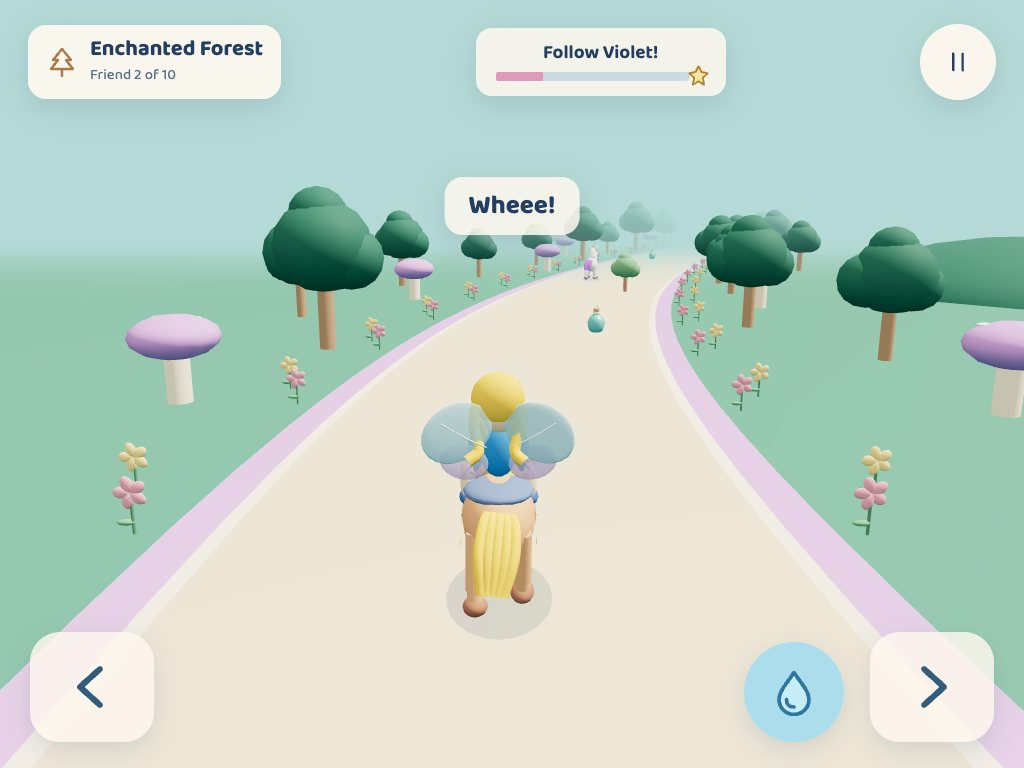
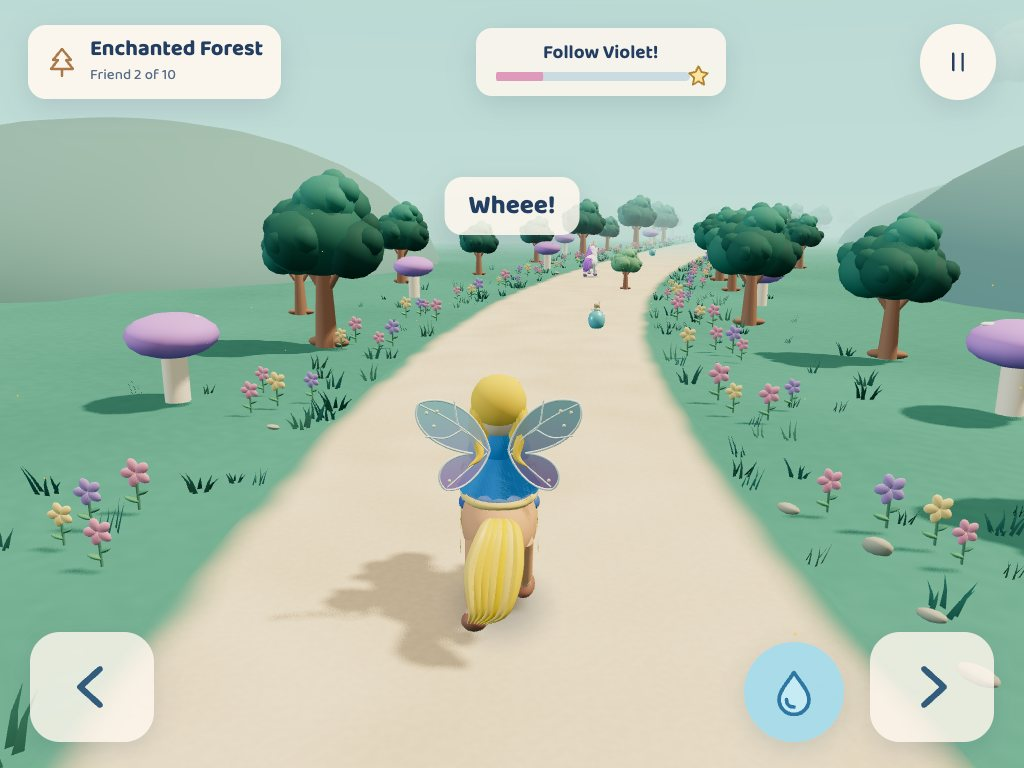
docs: refresh graphics gallery and record rendering quality controls

diff --git a/DESIGN.md b/DESIGN.md
@@ -113,13 +113,13 @@ components:
 
 **Creative North Star: "The Playable Storybook"**
 
-Rounded original 3D figurines inhabit magical pastel landscapes. Soft lighting, sculpted hair, expressive faces, broad curving tracks, flowers and physical landmarks supply the storybook character. The interface uses warm paper, sturdy rounded lettering and generous controls to keep that world readable.
+Rounded original 3D figurines inhabit magical pastel landscapes. Flowing tapered hair, layered eyes, butterfly wings and a scalloped dress give the characters their storybook detail. Textured curving paths, planted verges, layered hills and recognizable landmarks supply environmental depth. The interface uses warm paper, sturdy rounded lettering and generous controls to keep that world readable.
 
 The world remains animated behind the title and celebrations. Paper menus provide a quieter place to choose worlds and revisit friends. Preserve Mia's blonde hair, blue dress and wings; Glender's yellow mane, yellow tail and body stars; and white unicorn bodies with distinct mane colors. Exact provisional appearance choices remain in `DESIGN_NOTES.md`.
 
 **Key Characteristics:**
 
-- Dimensional characters and recognizable scenery, with original artwork.
+- Expressive dimensional characters and richly planted scenery, with original artwork.
 - Warm paper, blue actions, navy ink and pink/gold accents.
 - Large icon-led controls and short, friendly labels.
 - Galloping, wing motion, water magic and shared celebrations.
@@ -128,7 +128,7 @@ Recorded from `src/styles/game.css`, `src/ui/view.js`, `src/game/scene.js` and t
 
 ## Colors
 
-Pastel world colors sit behind a stable warm-paper interface. Frontmatter holds reusable interface values; `src/config/levels.js` owns each world's scenery palette.
+Pastel world colors sit behind a stable warm-paper interface. Frontmatter holds reusable interface values; `src/config/levels.js` owns each world's scenery palette. Character, prop and fairy-light colors belong to the original 3D artwork rather than the interface token palette.
 
 ### Primary
 
@@ -177,7 +177,11 @@ Spacing entries are observed recurring steps, not an implied mathematical scale.
 
 ## Elevation & Depth
 
-3D volume, broad light, fog and layered scenery establish environmental depth. Mesh materials normally use roughness 0.72. Rendering uses sRGB output and ACES filmic tone mapping at exposure 1.18, with warm hemisphere and directional lighting. Low-opacity ground discs anchor the rider and chased unicorn without dynamic shadow maps.
+3D volume, textured paths, a continuous horizon sky, fog and layered hills establish environmental depth. Rendering uses sRGB output and ACES filmic tone mapping at exposure 1.05. Daytime lighting combines warm hemisphere fill (1.65), a warm directional key (2.65) and a cool rim (0.9); night and cave worlds use cooler fill (1.1), a moonlit key (1.7) and a lilac rim.
+
+Automatic and Crisp picture quality enable one 1024 × 1024 PCF directional shadow map centered on the rider. Soft fading contact shadows anchor the rider and chased unicorn in every quality mode; Gentle disables the map. Automatic starts with a pixel-ratio cap of 1.5 and, when the sustained frame sample exceeds 24 ms at frame 300 during play, lowers the ratio to 1 and disables mapped shadows. Crisp caps the ratio at 2. These are implemented performance controls, not a physical iPad performance claim.
+
+Shared mesh materials normally use roughness 0.72. Hair, wings and quartz use smoother materials; terrain uses roughness 0.96 with world-space color variation and feathered path edges. Chunked geometry and instanced grass/pebbles keep the richer scenery bounded without postprocessing or external terrain textures.
 
 UI elevation uses blurred tinted shadows: shared ambient lift, blue-tinted primary lift and a broader pause-sheet shadow. Exact values live in the sidecar alongside touch-control shadows. The title retains a light text-shadow for lettering separation.
 
@@ -185,7 +189,7 @@ UI elevation uses blurred tinted shadows: shared ambient lift, blue-tinted prima
 
 ## Shapes
 
-Sculpted rounded silhouettes define characters, hair, wings and much of the scenery. Physical landmarks retain recognizable geometry, including castles, crystals and mountain peaks.
+Sculpted rounded silhouettes define characters and much of the scenery. Hair locks taper into flowing ends; blue/lilac butterfly wings carry pearl-colored contours and veins; the blue dress has a scalloped hem. Branching trees, arched castle openings, faceted quartz and floating cloud islands retain recognizable forms.
 
 Corners are purpose-based: tile, control, sheet and steering radii are recorded in frontmatter. Sound, pause and water use circles. Original inline SVG icons use rounded caps and joins, with 2.5-unit default strokes in a 32-unit viewBox and heavier steering arrows.
 

diff --git a/.impeccable/surfaces/src-main-js.md b/.impeccable/surfaces/src-main-js.md
@@ -15,7 +15,7 @@ Scope: the title, playable chase, world book, collection book, pause sheet and c
 
 **THESIS:** Ride with Mia and Glender and discover one friendly unicorn in each of ten magical worlds through an easy, forgiving chase.
 
-**OWN-WORLD:** Rounded dimensional original figurines and magical pastel landscapes, with recognizable physical scenery and original icons. Soft lighting, friendly faces, yellow sculpted hair and a readable blue dress establish the storybook world. No copied racing assets.
+**OWN-WORLD:** Rounded dimensional original figurines and magical pastel landscapes, with recognizable physical scenery and original icons. Level-specific daylight/moonlight, soft shadows, layered eyes, tapered yellow hair, a scalloped blue dress and veined butterfly wings establish the storybook world. Textured paths, planted verges and layered hills deepen the ten settings. No copied racing assets.
 
 **STORY:** Title → chase → friendly catch → Continue, an unlocked world and a revealed collection friend → a ten-friend family finale.
 
@@ -25,7 +25,7 @@ Scope: the title, playable chase, world book, collection book, pause sheet and c
 
 ## Composition and responsive behavior
 
-- Title: copy occupies 45% of the landscape width with a 64px left inset; a light-to-transparent wash makes the text readable while leaving the figures visible. At widths up to 900px the title is 72px. Short landscape uses clamp(43px, 6vw, 68px); portrait uses clamp(55px, 12vw, 90px), 80% copy width and no lower-right note.
+- Title: copy occupies 45% of the landscape width with a 64px left inset; a light-to-transparent wash makes the text readable while leaving the figures visible. At widths up to 900px the title is 72px. Short landscape uses clamp(43px, 6vw, 68px); portrait uses clamp(55px, 12vw, 90px), 80% copy width and no lower-right note. Below a camera aspect of 0.8, the title camera pulls back and raises its look target so Mia and Glender appear below the menu.
 - Books: ten tiles in five columns on landscape, with a 1120px maximum grid width; portrait uses two columns and scrolls above 100px of bottom clearance. World tiles combine a themed landmark and the actual rendered unicorn portrait. Collection silhouettes reveal in full color after a catch.
 - Chase: world label left, distance meter center and pause right. Steering anchors to opposite lower corners. Water sits beside right steering. Base steering pads are 124×110px and water is 100×100px; short landscape uses 110×95px and 88×88px, while portrait uses 95×95px and 80×80px. Portrait hides the distance meter and moves controls above the rotation hint. Preserve meaningful icon labels and room for small hands.
 - Celebration: copy above and actions below the visible 3D family. The course is hidden so scenery cannot obstruct the island portrait camera. The finale uses two rows of five unicorns with Mia and Glender visible behind the friends. Hearts and sparkles accompany the physical rainbow.
@@ -35,3 +35,7 @@ Scope: the title, playable chase, world book, collection book, pause sheet and c
 The finish reviewer returned ship after the eyebrow and hard primary shadow were removed and the finale capture showed Mia, Glender and all ten unicorns clearly. Source-backed evidence is in src/styles/game.css, src/ui/view.js and src/game/scene.js. Reviewed captures are docs/screenshots/title.jpg, meadow.jpg, water.jpg, catch.jpg, worlds.jpg, collection.jpg, finale.jpg and portrait.jpg, plus the ten world captures: meadow, forest, cloud, castle, candy, crystal, garden, night, mountain and palace.
 
 The primary HTTPS game URL was verified live by the build thread. Browser landscape/portrait captures establish rendered appearance; physical iPad performance and real multitouch comfort remain owner checks. World names, unicorn nicknames, Glender's base coat, additional appearance details and tuning remain provisional in DESIGN_NOTES.md. The owner delegated unspecified art and technical choices; this document does not claim child approval of those choices.
+
+## Graphics refinement evidence
+
+The October graphics pass preserves the established storybook direction and all interface tokens. All 19 gallery captures were refreshed and validated. The independent reviewer found character identity, material, typography, world differentiation, controls and celebrations matched the supplied refinement direction; its sole material correction was the stale lighting paragraph in DESIGN.md. That paragraph now records exposure 1.05, the implemented daylight/moonlit lighting and quality-dependent shadow maps. All eight Node tests and ten Chromium/WebKit cases passed. Physical iPad testing remains an owner check.

diff --git a/docs/QUALITY.md b/docs/QUALITY.md
@@ -16,15 +16,19 @@ The opt-in `?test=1` API advances the same physical simulation faster. It does n
 
 ## Screenshot review
 
-The real rendered game was captured at 1024 × 768. `docs/screenshots/` includes the title, ten worlds, boost, water spray, automatic jump, friendly catch, world menu, collection and final group celebration, plus the 390 × 844 portrait hint. JPEGs total approximately 1 MB.
+The real rendered game was captured at 1024 × 768. `docs/screenshots/` includes the title, ten worlds, boost, water spray, automatic jump, friendly catch, world menu, collection and final group celebration, plus the 390 × 844 portrait hint. The gallery is refreshed after visual changes; file sizes remain suitable for the README.
 
 The review corrected disconnected hoof geometry, terrain alignment, an overly subtle water stream, missing nearby mountain silhouettes, the night sky, and accessible names for the portrait Back button. Celebrations now use a flower-ringed island so the portrait camera cannot enter course scenery. Test-accelerated celebration cameras are settled before capture. The owner's reported reversed steering was corrected in the lateral basis, camera basis and road winding, with unit and browser screen-direction regression checks.
 
 ## Performance choices
 
-WebGL rendering; no WebGPU or postprocessing. Scenery is merged by material into spatial chunks. Props use lower-detail meshes than characters. Particle count is bounded at 160; water adds fourteen small droplets while active. Pixel ratio starts at at most 1.5 in Automatic, can be reduced after a sustained slow frame sample, and can be set to Gentle (1) or Crisp (at most 2). Original compressed font is approximately 33 KB; authored potion approximately 28 KB; JavaScript approximately 182 KB gzipped.
+WebGL rendering; no WebGPU or postprocessing. Scenery is merged by material into spatial chunks. Props use lower-detail meshes than characters. Roadside grass and pebbles use spatially chunked instancing, and terrain color variation and the sky each render without additional texture downloads. Particle count is bounded at 160; water adds fourteen small droplets while active. Pixel ratio starts at at most 1.5 in Automatic, can be reduced after a sustained slow frame sample, and can be set to Gentle (1) or Crisp (at most 2). Automatic/Crisp use a single 1024 px directional shadow map; Gentle uses soft contact shadows. Automatic also disables the shadow map when the sustained slow-frame threshold is reached. Original compressed font is approximately 33 KB; authored potion approximately 28 KB; JavaScript approximately 188 KB gzipped.
 
-Geometry created for a world or character is disposed during level changes. Shared primitives, materials and the loaded GLB are reused. The player remains a single persistent model. Context loss displays a reload action; completed progress is already saved. Backgrounding pauses active play.
+Geometry and terrain materials created for a world or character, including the instanced planting buffers, are disposed during level changes. Shared primitives, materials and the loaded GLB are reused. The player remains a single persistent model. Context loss displays a reload action; completed progress is already saved. Backgrounding pauses active play.
+
+## October graphics validation
+
+The graphics refinement refreshed all 19 gallery captures, including all ten worlds and portrait framing. The terrain, sky and character shaders rendered without browser console errors. A short 180-frame meadow sample in Chromium on this Mac's Apple M2/Metal GPU measured a 16.5 ms median and 19 ms 95th percentile with detailed shadows enabled; this is a desktop observation, not an iPad guarantee. Manual runtime checks verified Gentle/Crisp shadow switching and Automatic's resolution/shadow fallback. Four consecutive meadow replacements retained the same GPU geometry/texture counts. All eight Node tests and ten Chromium/WebKit cases passed after the graphics update.
 
 ## Owner's physical iPad check — still required
 

diff --git a/README.md b/README.md
@@ -71,7 +71,7 @@ Turn an iPad sideways, tap **Let’s play**, and follow the unicorn. There is no
 | Spray water | Tap or hold the blue droplet; steering can continue | Space |
 | Pause / resume | Tap Pause, then Keep chasing | Escape, or use the buttons |
 
-Pause also offers Restart, Home, sound, picture quality, and Gentle motion. **Automatic** picture quality caps resolution and can lower it if rendering stays slow; choose **Gentle** on a less powerful device. The game remains playable muted, and sound starts only after a browser-permitted user gesture.
+Pause also offers Restart, Home, sound, picture quality, and Gentle motion. **Automatic** picture quality caps resolution and can lower it and turn off detailed shadows if rendering stays slow; choose **Gentle** on a less powerful device. The game remains playable muted, and sound starts only after a browser-permitted user gesture.
 
 ## Run locally
 
@@ -130,7 +130,7 @@ The static JavaScript modules use **Three.js + WebGL**, **Vite**, **Web Audio**,
 | Menus, icons and touch controls | [src/ui](src/ui), [game.css](src/styles/game.css) |
 | Save schema and graceful recovery | [src/game/save.js](src/game/save.js) |
 
-Characters and environments are original procedural models with reusable geometry and animation pivots. The sparkly potion is an optimized, original Blender GLB, with a procedural fallback. Its [authoring script](tools/blender_potion.py) creates a separate scene and exports only that scene. Scenery is merged into spatial chunks; particles and render resolution are bounded; level resources are disposed on replacement.
+Characters and environments are original procedural models with reusable geometry and animation pivots. The sparkly potion is an optimized, original Blender GLB, with a procedural fallback. Its [authoring script](tools/blender_potion.py) creates a separate scene and exports only that scene. Scenery is merged into spatial chunks, with instanced grass and pebbles. Flowing hair, butterfly wings, soft shadows, textured paths, layered hills, floating islands and moonlit lighting give the worlds more depth. Particles, shadow maps and render resolution are bounded; level resources are disposed on replacement.
 
 ## Tested, with room for a real playtest
 

diff --git a/IMPLEMENTATION_PLAN.md b/IMPLEMENTATION_PLAN.md
@@ -23,3 +23,13 @@ Implementation is complete. The remaining owner activity is a physical iPad/chil
 
 ## Validation
 Eight deterministic tests and ten browser cases passed locally in Chromium and WebKit. Root/subpath asset checks passed. GitHub Actions build, five Chromium cases and Pages deployment passed, including steering-fix run https://github.com/christopherrbrown3/fairy-unicorn-chase/actions/runs/38321320666. Nineteen real screenshots captured and inspected. Independent visual review scored both requested mechanical fixes resolved and returned ship at that scope. The polished README and gallery were committed separately near the end; GitHub's rendered README loaded all seven inline images correctly and every local documentation link exists. Physical iPad testing remains unperformed. See docs/QUALITY.md for the owner's device checklist.
+
+## Graphics refinement — October 13
+
+- [x] Refine characters with flowing tapered hair, layered eyes, butterfly wings and a scalloped dress.
+- [x] Add textured paths, planted verges, layered hills, floating islands and detailed castle/quartz landmarks.
+- [x] Add daylight/moonlit lighting, a horizon sky, mapped shadows and a low-cost quality fallback.
+- [x] Refresh all 19 real screenshots, including character framing on portrait.
+- [x] Pass all eight Node tests and ten Chromium/WebKit cases, with corrected steering retained.
+
+The graphics build rendered without browser console errors. A short meadow sample on Apple M2/Metal measured 16.5 ms median and 19 ms p95 with shadows enabled. Quality-mode switching and Automatic fallback were checked at runtime; four consecutive world replacements retained stable GPU resource counts. These are desktop observations; physical iPad testing remains unperformed. Independent visual review found the supplied graphics direction met, with one documentation correction to the stale lighting paragraph.
